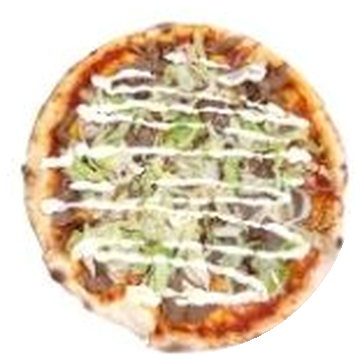
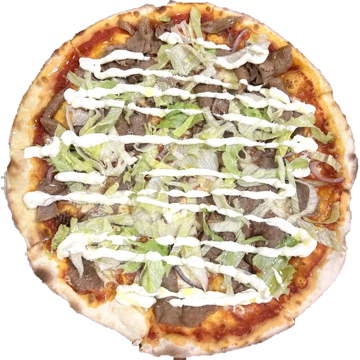
Uusi kebabpizzan kuva (tiistain päivän pizza), tausta poistettu
Claude-Session: https://claude.ai/code/session_019QJ8uAZrjsHY5GBSvSU4sp

diff --git a/index.html b/index.html
@@ -1,9 +1,9 @@
 <!DOCTYPE html>
-<html lang="fi"><head><meta charset="utf-8"><meta name="build" content="1793695735"><meta name="viewport" content="width=device-width, initial-scale=1, viewport-fit=cover">
+<html lang="fi"><head><meta charset="utf-8"><meta name="build" content="1793695935"><meta name="viewport" content="width=device-width, initial-scale=1, viewport-fit=cover">
 <title>Malakai Ravintola Lempäälä | Pizzabuffet, kebab, burgerit ja siivet</title><meta name="description" content="Malakai Ravintola, Tampereentie 414 Lempäälä. Pizzabuffet 13,70 € / 14,90 €, päivän pizza 9,90 €, kebabit, burgerit, Sticky Fingers ja Hot Wings. Varaa pöytä: 045 353 7000.">
 <meta property="og:title" content="Malakai Ravintola Lempäälä | Pizzabuffet, kebab, burgerit ja siivet"><meta property="og:description" content="Malakai Ravintola, Tampereentie 414 Lempäälä. Pizzabuffet 13,70 € / 14,90 €, päivän pizza 9,90 €, kebabit, burgerit, Sticky Fingers ja Hot Wings. Varaa pöytä: 045 353 7000."><meta property="og:image" content="media/kuvat/hero-levea.jpg"><meta property="og:locale" content="fi_FI">
 <link href="https://fonts.googleapis.com/css2?family=Anton&family=Inter:wght@400;500;700&family=Playfair+Display:wght@500;600&display=swap" rel="stylesheet">
-<link rel="stylesheet" href="styles.css?v=1793695735"><link rel="stylesheet" href="home.css?v=1793695735">
+<link rel="stylesheet" href="styles.css?v=1793695935"><link rel="stylesheet" href="home.css?v=1793695935">
 <script type="application/ld+json">{"@context":"https://schema.org","@type":"Restaurant","name":"Malakai Ravintola","address":{"@type":"PostalAddress","streetAddress":"Tampereentie 414","postalCode":"33880","addressLocality":"Lempäälä","addressCountry":"FI"},"telephone":"+358453537000","email":"malakairavintola@gmail.com","url":"https://malakairavintola.fi","servesCuisine":["Pizza","Kebab","Burgerit"],"openingHours":["Mo-Th 10:30-20:00","Fr 10:30-21:00","Sa 11:00-21:00","Su 12:00-20:00"]}</script>
 </head>
 <body class="home">
@@ -219,5 +219,5 @@
 <div class="fcopy">© 2025 Malakai Ravintola · <a href="https://www.oivahymy.fi/api/raportti/227129" target="_blank" rel="noopener">Oiva-raportti (Oivallinen)</a> · <a href="tietosuoja.html">Tietosuojaseloste</a> · <a href="kayttoehdot.html">Käyttö- ja varausehdot</a></div>
 </div></footer>
 <div class="bar"><a class="btn" href="tel:+358453537000">Soita</a><a class="btn r" href="https://order.site/malakai-ravintola" target="_blank" rel="noopener">Tilaa</a><a class="btn y" href="#varaa">Varaa pöytä</a></div>
-<script src="data.js?v=1793695735"></script><script src="config.js?v=1793695735"></script><script src="site.js?v=1793695735"></script>
+<script src="data.js?v=1793695935"></script><script src="config.js?v=1793695935"></script><script src="site.js?v=1793695935"></script>
 </body></html>

diff --git a/lounas.html b/lounas.html
@@ -1,9 +1,9 @@
 <!DOCTYPE html>
-<html lang="fi"><head><meta charset="utf-8"><meta name="build" content="1793695735"><meta name="viewport" content="width=device-width, initial-scale=1, viewport-fit=cover">
+<html lang="fi"><head><meta charset="utf-8"><meta name="build" content="1793695935"><meta name="viewport" content="width=device-width, initial-scale=1, viewport-fit=cover">
 <title>Lounas Sääksjärvi | Malakai Ravintola Lempäälä</title><meta name="description" content="Pizzabuffet Lempäälässä: arkisin klo 10.30–15 13,70 €, viikonloppuisin klo 13–18 14,90 €. Salaattibuffet 9,90 € / 10,90 €. Lapsille omat hinnat.">
 <meta property="og:title" content="Pizzabuffet Lempäälä | Malakai Ravintola"><meta property="og:description" content="Pizzabuffet Lempäälässä: arkisin klo 10.30–15 13,70 €, viikonloppuisin klo 13–18 14,90 €. Salaattibuffet 9,90 € / 10,90 €. Lapsille omat hinnat."><meta property="og:image" content="media/hero.jpg"><meta property="og:locale" content="fi_FI">
 <link href="https://fonts.googleapis.com/css2?family=Anton&family=Inter:wght@400;500;700&family=Playfair+Display:wght@500;600&display=swap" rel="stylesheet">
-<link rel="stylesheet" href="styles.css?v=1793695735"><link rel="stylesheet" href="home.css?v=1793695735">
+<link rel="stylesheet" href="styles.css?v=1793695935"><link rel="stylesheet" href="home.css?v=1793695935">
 <script type="application/ld+json">{"@context":"https://schema.org","@type":"Restaurant","name":"Malakai Ravintola","address":{"@type":"PostalAddress","streetAddress":"Tampereentie 414","postalCode":"33880","addressLocality":"Lempäälä","addressCountry":"FI"},"telephone":"+358453537000","email":"malakairavintola@gmail.com","url":"https://malakairavintola.fi","servesCuisine":["Pizza","Kebab","Burgerit"],"openingHours":["Mo-Th 10:30-20:00","Fr 10:30-21:00","Sa 11:00-21:00","Su 12:00-20:00"]}</script>
 </head><body class="home">
 <header class="top" id="topbar">
@@ -73,5 +73,5 @@
 <div class="fcopy">© 2025 Malakai Ravintola · <a href="https://www.oivahymy.fi/api/raportti/227129" target="_blank" rel="noopener">Oiva-raportti (Oivallinen)</a> · <a href="tietosuoja.html">Tietosuojaseloste</a> · <a href="kayttoehdot.html">Käyttö- ja varausehdot</a></div>
 </div></footer>
 <div class="bar"><a class="btn" href="tel:+358453537000">Soita</a><a class="btn r" href="https://order.site/malakai-ravintola" target="_blank" rel="noopener">Tilaa</a><a class="btn y" href="index.html#varaa">Varaa pöytä</a></div>
-<script src="data.js?v=1793695735"></script><script src="config.js?v=1793695735"></script><script src="site.js?v=1793695735"></script>
+<script src="data.js?v=1793695935"></script><script src="config.js?v=1793695935"></script><script src="site.js?v=1793695935"></script>
 </body></html>

diff --git a/pikkujoulut.html b/pikkujoulut.html
@@ -1,9 +1,9 @@
 <!DOCTYPE html>
-<html lang="fi"><head><meta charset="utf-8"><meta name="build" content="1793695735"><meta name="viewport" content="width=device-width, initial-scale=1, viewport-fit=cover">
+<html lang="fi"><head><meta charset="utf-8"><meta name="build" content="1793695935"><meta name="viewport" content="width=device-width, initial-scale=1, viewport-fit=cover">
 <title>Pikkujoulut 2026 Lempäälä | Malakai Ravintola</title><meta name="description" content="Pikkujoulut 2026 Malakai Ravintolassa Sääksjärvellä: runsas buffet työporukalle, kavereille ja suvulle. Pyydä tarjous: 045 353 7000.">
 <meta property="og:title" content="Pikkujoulut 2026 | Malakai Ravintola"><meta property="og:description" content="Pikkujoulut 2026 Malakai Ravintolassa Sääksjärvellä: runsas buffet työporukalle, kavereille ja suvulle. Pyydä tarjous: 045 353 7000."><meta property="og:image" content="media/kuvat/buffet-lautanen.jpg"><meta property="og:locale" content="fi_FI">
 <link href="https://fonts.googleapis.com/css2?family=Anton&family=Inter:wght@400;500;700&family=Playfair+Display:wght@500;600&display=swap" rel="stylesheet">
-<link rel="stylesheet" href="styles.css?v=1793695735"><link rel="stylesheet" href="home.css?v=1793695735">
+<link rel="stylesheet" href="styles.css?v=1793695935"><link rel="stylesheet" href="home.css?v=1793695935">
 <script type="application/ld+json">{"@context":"https://schema.org","@type":"Restaurant","name":"Malakai Ravintola","address":{"@type":"PostalAddress","streetAddress":"Tampereentie 414","postalCode":"33880","addressLocality":"Lempäälä","addressCountry":"FI"},"telephone":"+358453537000","email":"malakairavintola@gmail.com","url":"https://malakairavintola.fi","servesCuisine":["Pizza","Kebab","Burgerit"],"openingHours":["Mo-Th 10:30-20:00","Fr 10:30-21:00","Sa 11:00-21:00","Su 12:00-20:00"]}</script>
 </head><body class="home">
 <header class="top" id="topbar">
@@ -66,5 +66,5 @@
 <div class="fcopy">© 2025 Malakai Ravintola · <a href="https://www.oivahymy.fi/api/raportti/227129" target="_blank" rel="noopener">Oiva-raportti (Oivallinen)</a> · <a href="tietosuoja.html">Tietosuojaseloste</a> · <a href="kayttoehdot.html">Käyttö- ja varausehdot</a></div>
 </div></footer>
 <div class="bar"><a class="btn" href="tel:+358453537000">Soita</a><a class="btn r" href="https://order.site/malakai-ravintola" target="_blank" rel="noopener">Tilaa</a><a class="btn y" href="index.html#varaa">Varaa pöytä</a></div>
-<script src="data.js?v=1793695735"></script><script src="config.js?v=1793695735"></script><script src="site.js?v=1793695735"></script>
+<script src="data.js?v=1793695935"></script><script src="config.js?v=1793695935"></script><script src="site.js?v=1793695935"></script>
 </body></html>

diff --git a/ruokalista.html b/ruokalista.html
@@ -1,9 +1,9 @@
 <!DOCTYPE html>
-<html lang="fi"><head><meta charset="utf-8"><meta name="build" content="1793695735"><meta name="viewport" content="width=device-width, initial-scale=1, viewport-fit=cover">
+<html lang="fi"><head><meta charset="utf-8"><meta name="build" content="1793695935"><meta name="viewport" content="width=device-width, initial-scale=1, viewport-fit=cover">
 <title>Ruokalista | Malakai Ravintola Lempäälä</title><meta name="description" content="Malakai Ravintolan ruokalista: pizzat, kebabit, kana, Sticky Fingers, Hot Wings, burgerit, lisukkeet, dipit ja juomat hintoineen.">
 <meta property="og:title" content="Ruokalista | Malakai Ravintola Lempäälä"><meta property="og:description" content="Malakai Ravintolan ruokalista: pizzat, kebabit, kana, Sticky Fingers, Hot Wings, burgerit, lisukkeet, dipit ja juomat hintoineen."><meta property="og:image" content="media/hero.jpg"><meta property="og:locale" content="fi_FI">
 <link href="https://fonts.googleapis.com/css2?family=Anton&family=Inter:wght@400;500;700&family=Playfair+Display:wght@500;600&display=swap" rel="stylesheet">
-<link rel="stylesheet" href="styles.css?v=1793695735"><link rel="stylesheet" href="home.css?v=1793695735">
+<link rel="stylesheet" href="styles.css?v=1793695935"><link rel="stylesheet" href="home.css?v=1793695935">
 <script type="application/ld+json">{"@context":"https://schema.org","@type":"Restaurant","name":"Malakai Ravintola","address":{"@type":"PostalAddress","streetAddress":"Tampereentie 414","postalCode":"33880","addressLocality":"Lempäälä","addressCountry":"FI"},"telephone":"+358453537000","email":"malakairavintola@gmail.com","url":"https://malakairavintola.fi","servesCuisine":["Pizza","Kebab","Burgerit"],"openingHours":["Mo-Th 10:30-20:00","Fr 10:30-21:00","Sa 11:00-21:00","Su 12:00-20:00"]}</script>
 </head><body class="home menu-page">
 <header class="top" id="topbar">
@@ -23,5 +23,5 @@
 <div class="fcopy">© 2025 Malakai Ravintola · <a href="https://www.oivahymy.fi/api/raportti/227129" target="_blank" rel="noopener">Oiva-raportti (Oivallinen)</a> · <a href="tietosuoja.html">Tietosuojaseloste</a> · <a href="kayttoehdot.html">Käyttö- ja varausehdot</a></div>
 </div></footer>
 <div class="bar"><a class="btn" href="tel:+358453537000">Soita</a><a class="btn r" href="https://order.site/malakai-ravintola" target="_blank" rel="noopener">Tilaa</a><a class="btn y" href="index.html#varaa">Varaa pöytä</a></div>
-<script src="data.js?v=1793695735"></script><script src="config.js?v=1793695735"></script><script src="site.js?v=1793695735"></script>
+<script src="data.js?v=1793695935"></script><script src="config.js?v=1793695935"></script><script src="site.js?v=1793695935"></script>
 </body></html>

diff --git a/pizza-lempaala.html b/pizza-lempaala.html
@@ -1,9 +1,9 @@
 <!DOCTYPE html>
-<html lang="fi"><head><meta charset="utf-8"><meta name="build" content="1793695735"><meta name="viewport" content="width=device-width, initial-scale=1, viewport-fit=cover">
+<html lang="fi"><head><meta charset="utf-8"><meta name="build" content="1793695935"><meta name="viewport" content="width=device-width, initial-scale=1, viewport-fit=cover">
 <title>Pizza Lempäälä | Malakai Ravintola</title><meta name="description" content="Pizza Lempäälässä: Malakai Ravintolan 22 pizzaa, oma valinta ja päivän pizza 9,90 €. Pizzabuffet joka päivä.">
 <meta property="og:title" content="Pizza Lempäälä | Malakai Ravintola"><meta property="og:description" content="Pizza Lempäälässä: Malakai Ravintolan 22 pizzaa, oma valinta ja päivän pizza 9,90 €. Pizzabuffet joka päivä."><meta property="og:image" content="media/hero.jpg"><meta property="og:locale" content="fi_FI">
 <link href="https://fonts.googleapis.com/css2?family=Anton&family=Inter:wght@400;500;700&family=Playfair+Display:wght@500;600&display=swap" rel="stylesheet">
-<link rel="stylesheet" href="styles.css?v=1793695735"><link rel="stylesheet" href="home.css?v=1793695735">
+<link rel="stylesheet" href="styles.css?v=1793695935"><link rel="stylesheet" href="home.css?v=1793695935">
 <script type="application/ld+json">{"@context":"https://schema.org","@type":"Restaurant","name":"Malakai Ravintola","address":{"@type":"PostalAddress","streetAddress":"Tampereentie 414","postalCode":"33880","addressLocality":"Lempäälä","addressCountry":"FI"},"telephone":"+358453537000","email":"malakairavintola@gmail.com","url":"https://malakairavintola.fi","servesCuisine":["Pizza","Kebab","Burgerit"],"openingHours":["Mo-Th 10:30-20:00","Fr 10:30-21:00","Sa 11:00-21:00","Su 12:00-20:00"]}</script>
 </head><body class="home menu-page">
 <header class="top" id="topbar">
@@ -23,5 +23,5 @@
 <div class="fcopy">© 2025 Malakai Ravintola · <a href="https://www.oivahymy.fi/api/raportti/227129" target="_blank" rel="noopener">Oiva-raportti (Oivallinen)</a> · <a href="tietosuoja.html">Tietosuojaseloste</a> · <a href="kayttoehdot.html">Käyttö- ja varausehdot</a></div>
 </div></footer>
 <div class="bar"><a class="btn" href="tel:+358453537000">Soita</a><a class="btn r" href="https://order.site/malakai-ravintola" target="_blank" rel="noopener">Tilaa</a><a class="btn y" href="index.html#varaa">Varaa pöytä</a></div>
-<script src="data.js?v=1793695735"></script><script src="config.js?v=1793695735"></script><script src="site.js?v=1793695735"></script>
+<script src="data.js?v=1793695935"></script><script src="config.js?v=1793695935"></script><script src="site.js?v=1793695935"></script>
 </body></html>

diff --git a/kebab-lempaala.html b/kebab-lempaala.html
@@ -1,9 +1,9 @@
 <!DOCTYPE html>
-<html lang="fi"><head><meta charset="utf-8"><meta name="build" content="1793695735"><meta name="viewport" content="width=device-width, initial-scale=1, viewport-fit=cover">
+<html lang="fi"><head><meta charset="utf-8"><meta name="build" content="1793695935"><meta name="viewport" content="width=device-width, initial-scale=1, viewport-fit=cover">
 <title>Kebab Lempäälä | Malakai Ravintola</title><meta name="description" content="Kebab Lempäälässä: Malakai Ravintolan kebab- ja kanaannokset ranskalaisilla, riisillä, rullana ja pitassa.">
 <meta property="og:title" content="Kebab Lempäälä | Malakai Ravintola"><meta property="og:description" content="Kebab Lempäälässä: Malakai Ravintolan kebab- ja kanaannokset ranskalaisilla, riisillä, rullana ja pitassa."><meta property="og:image" content="media/hero.jpg"><meta property="og:locale" content="fi_FI">
 <link href="https://fonts.googleapis.com/css2?family=Anton&family=Inter:wght@400;500;700&family=Playfair+Display:wght@500;600&display=swap" rel="stylesheet">
-<link rel="stylesheet" href="styles.css?v=1793695735"><link rel="stylesheet" href="home.css?v=1793695735">
+<link rel="stylesheet" href="styles.css?v=1793695935"><link rel="stylesheet" href="home.css?v=1793695935">
 <script type="application/ld+json">{"@context":"https://schema.org","@type":"Restaurant","name":"Malakai Ravintola","address":{"@type":"PostalAddress","streetAddress":"Tampereentie 414","postalCode":"33880","addressLocality":"Lempäälä","addressCountry":"FI"},"telephone":"+358453537000","email":"malakairavintola@gmail.com","url":"https://malakairavintola.fi","servesCuisine":["Pizza","Kebab","Burgerit"],"openingHours":["Mo-Th 10:30-20:00","Fr 10:30-21:00","Sa 11:00-21:00","Su 12:00-20:00"]}</script>
 </head><body class="home menu-page">
 <header class="top" id="topbar">
@@ -23,5 +23,5 @@
 <div class="fcopy">© 2025 Malakai Ravintola · <a href="https://www.oivahymy.fi/api/raportti/227129" target="_blank" rel="noopener">Oiva-raportti (Oivallinen)</a> · <a href="tietosuoja.html">Tietosuojaseloste</a> · <a href="kayttoehdot.html">Käyttö- ja varausehdot</a></div>
 </div></footer>
 <div class="bar"><a class="btn" href="tel:+358453537000">Soita</a><a class="btn r" href="https://order.site/malakai-ravintola" target="_blank" rel="noopener">Tilaa</a><a class="btn y" href="index.html#varaa">Varaa pöytä</a></div>
-<script src="data.js?v=1793695735"></script><script src="config.js?v=1793695735"></script><script src="site.js?v=1793695735"></script>
+<script src="data.js?v=1793695935"></script><script src="config.js?v=1793695935"></script><script src="site.js?v=1793695935"></script>
 </body></html>

diff --git a/kayttoehdot.html b/kayttoehdot.html
@@ -1,9 +1,9 @@
 <!DOCTYPE html>
-<html lang="fi"><head><meta charset="utf-8"><meta name="build" content="1793695735"><meta name="viewport" content="width=device-width, initial-scale=1, viewport-fit=cover">
+<html lang="fi"><head><meta charset="utf-8"><meta name="build" content="1793695935"><meta name="viewport" content="width=device-width, initial-scale=1, viewport-fit=cover">
 <title>Käyttö- ja varausehdot | Malakai Ravintola</title><meta name="description" content="Malakai Ravintolan käyttö- ja varausehdot: pöytävaraukset, lahjakortit ja sivuston käyttö."><meta name="robots" content="noindex">
 <meta property="og:title" content="Käyttö- ja varausehdot | Malakai Ravintola"><meta property="og:description" content="Pöytävaraukset ja lahjakortit: Malakai Ravintolan ehdot."><meta property="og:image" content="media/kuvat/buffet-lautanen.jpg"><meta property="og:locale" content="fi_FI">
 <link href="https://fonts.googleapis.com/css2?family=Anton&family=Inter:wght@400;500;700&family=Playfair+Display:wght@500;600&display=swap" rel="stylesheet">
-<link rel="stylesheet" href="styles.css?v=1793695735"><link rel="stylesheet" href="home.css?v=1793695735">
+<link rel="stylesheet" href="styles.css?v=1793695935"><link rel="stylesheet" href="home.css?v=1793695935">
 <script type="application/ld+json">{"@context":"https://schema.org","@type":"Restaurant","name":"Malakai Ravintola","address":{"@type":"PostalAddress","streetAddress":"Tampereentie 414","postalCode":"33880","addressLocality":"Lempäälä","addressCountry":"FI"},"telephone":"+358453537000","email":"malakairavintola@gmail.com","url":"https://malakairavintola.fi","servesCuisine":["Pizza","Kebab","Burgerit"],"openingHours":["Mo-Th 10:30-20:00","Fr 10:30-21:00","Sa 11:00-21:00","Su 12:00-20:00"]}</script>
 </head><body class="home">
 <header class="top" id="topbar">
@@ -69,5 +69,5 @@
 <div class="fcopy">© 2025 Malakai Ravintola · <a href="https://www.oivahymy.fi/api/raportti/227129" target="_blank" rel="noopener">Oiva-raportti (Oivallinen)</a> · <a href="tietosuoja.html">Tietosuojaseloste</a> · <a href="kayttoehdot.html">Käyttö- ja varausehdot</a></div>
 </div></footer>
 <div class="bar"><a class="btn" href="tel:+358453537000">Soita</a><a class="btn r" href="https://order.site/malakai-ravintola" target="_blank" rel="noopener">Tilaa</a><a class="btn y" href="index.html#varaa">Varaa pöytä</a></div>
-<script src="data.js?v=1793695735"></script><script src="config.js?v=1793695735"></script><script src="site.js?v=1793695735"></script>
+<script src="data.js?v=1793695935"></script><script src="config.js?v=1793695935"></script><script src="site.js?v=1793695935"></script>
 </body></html>

diff --git a/tietosuoja.html b/tietosuoja.html
@@ -1,9 +1,9 @@
 <!DOCTYPE html>
-<html lang="fi"><head><meta charset="utf-8"><meta name="build" content="1793695735"><meta name="viewport" content="width=device-width, initial-scale=1, viewport-fit=cover">
+<html lang="fi"><head><meta charset="utf-8"><meta name="build" content="1793695935"><meta name="viewport" content="width=device-width, initial-scale=1, viewport-fit=cover">
 <title>Tietosuojaseloste | Malakai Ravintola</title><meta name="description" content="Malakai Ravintolan tietosuojaseloste: pöytävarausten ja uutiskirjeen henkilötietojen käsittely."><meta name="robots" content="noindex">
 <meta property="og:title" content="Tietosuojaseloste | Malakai Ravintola"><meta property="og:image" content="media/kuvat/buffet-lautanen.jpg"><meta property="og:locale" content="fi_FI">
 <link href="https://fonts.googleapis.com/css2?family=Anton&family=Inter:wght@400;500;700&family=Playfair+Display:wght@500;600&display=swap" rel="stylesheet">
-<link rel="stylesheet" href="styles.css?v=1793695735"><link rel="stylesheet" href="home.css?v=1793695735">
+<link rel="stylesheet" href="styles.css?v=1793695935"><link rel="stylesheet" href="home.css?v=1793695935">
 <script type="application/ld+json">{"@context":"https://schema.org","@type":"Restaurant","name":"Malakai Ravintola","address":{"@type":"PostalAddress","streetAddress":"Tampereentie 414","postalCode":"33880","addressLocality":"Lempäälä","addressCountry":"FI"},"telephone":"+358453537000","email":"malakairavintola@gmail.com","url":"https://malakairavintola.fi","servesCuisine":["Pizza","Kebab","Burgerit"],"openingHours":["Mo-Th 10:30-20:00","Fr 10:30-21:00","Sa 11:00-21:00","Su 12:00-20:00"]}</script>
 </head><body class="home">
 <header class="top" id="topbar">
@@ -47,5 +47,5 @@
 <div class="fcopy">© 2025 Malakai Ravintola · <a href="https://www.oivahymy.fi/api/raportti/227129" target="_blank" rel="noopener">Oiva-raportti (Oivallinen)</a> · <a href="tietosuoja.html">Tietosuojaseloste</a> · <a href="kayttoehdot.html">Käyttö- ja varausehdot</a></div>
 </div></footer>
 <div class="bar"><a class="btn" href="tel:+358453537000">Soita</a><a class="btn r" href="https://order.site/malakai-ravintola" target="_blank" rel="noopener">Tilaa</a><a class="btn y" href="index.html#varaa">Varaa pöytä</a></div>
-<script src="data.js?v=1793695735"></script><script src="config.js?v=1793695735"></script><script src="site.js?v=1793695735"></script>
+<script src="data.js?v=1793695935"></script><script src="config.js?v=1793695935"></script><script src="site.js?v=1793695935"></script>
 </body></html>

diff --git a/lahjakortit.html b/lahjakortit.html
@@ -1,9 +1,9 @@
 <!DOCTYPE html>
-<html lang="fi"><head><meta charset="utf-8"><meta name="build" content="1793695735"><meta name="viewport" content="width=device-width, initial-scale=1, viewport-fit=cover">
+<html lang="fi"><head><meta charset="utf-8"><meta name="build" content="1793695935"><meta name="viewport" content="width=device-width, initial-scale=1, viewport-fit=cover">
 <title>Lahjakortit | Malakai Ravintola</title><meta name="description" content="Malakai Ravintolan lahjakortti: valitse summa itse (alk. 20 €), voimassa 6 kk. Osta ravintolan kassalta, Tampereentie 414, Lempäälä.">
 <meta property="og:title" content="Lahjakortit | Malakai Ravintola"><meta property="og:image" content="media/kuvat/buffet-lautanen.jpg"><meta property="og:locale" content="fi_FI">
 <link href="https://fonts.googleapis.com/css2?family=Anton&family=Inter:wght@400;500;700&family=Playfair+Display:wght@500;600&display=swap" rel="stylesheet">
-<link rel="stylesheet" href="styles.css?v=1793695735"><link rel="stylesheet" href="home.css?v=1793695735">
+<link rel="stylesheet" href="styles.css?v=1793695935"><link rel="stylesheet" href="home.css?v=1793695935">
 <script type="application/ld+json">{"@context":"https://schema.org","@type":"Restaurant","name":"Malakai Ravintola","address":{"@type":"PostalAddress","streetAddress":"Tampereentie 414","postalCode":"33880","addressLocality":"Lempäälä","addressCountry":"FI"},"telephone":"+358453537000","email":"malakairavintola@gmail.com","url":"https://malakairavintola.fi","servesCuisine":["Pizza","Kebab","Burgerit"],"openingHours":["Mo-Th 10:30-20:00","Fr 10:30-21:00","Sa 11:00-21:00","Su 12:00-20:00"]}</script>
 </head><body class="home">
 <header class="top" id="topbar">
@@ -44,5 +44,5 @@
 <div class="fcopy">© 2025 Malakai Ravintola · <a href="https://www.oivahymy.fi/api/raportti/227129" target="_blank" rel="noopener">Oiva-raportti (Oivallinen)</a> · <a href="tietosuoja.html">Tietosuojaseloste</a> · <a href="kayttoehdot.html">Käyttö- ja varausehdot</a></div>
 </div></footer>
 <div class="bar"><a class="btn" href="tel:+358453537000">Soita</a><a class="btn r" href="https://order.site/malakai-ravintola" target="_blank" rel="noopener">Tilaa</a><a class="btn y" href="index.html#varaa">Varaa pöytä</a></div>
-<script src="data.js?v=1793695735"></script><script src="config.js?v=1793695735"></script><script src="site.js?v=1793695735"></script>
+<script src="data.js?v=1793695935"></script><script src="config.js?v=1793695935"></script><script src="site.js?v=1793695935"></script>
 </body></html>

diff --git a/admin.html b/admin.html
@@ -102,8 +102,8 @@ a{color:var(--y)}
 <main class="w" id="main"></main>
 <div class="save" id="saveBar"><div class="w"><span id="saveTxt">Ei tallentamattomia muutoksia</span><button class="o" id="undo" disabled>Peru muutokset</button><button id="saveBtn" disabled>Tallenna ja julkaise</button></div></div>
 <div id="toast" hidden></div>
-<script src="data.js?v=1793695735"></script>
-<script src="config.js?v=1793695735"></script>
+<script src="data.js?v=1793695935"></script>
+<script src="config.js?v=1793695935"></script>
 <script>
 (function(){
 const REPO="malakai-ravintola/malakai-ravintola.github.io",BR="main",FILE="data.js";

diff --git a/data.js b/data.js
@@ -8,7 +8,7 @@ window.SITE=/*BEGIN*/{
   },
   "ti": {
    "name": "Kebab Pizza",
-   "img": "media/pizza-ti.png"
+   "img": "media/pizza-ti.webp?v=2"
   },
   "ke": {
    "name": "Mexicana",
